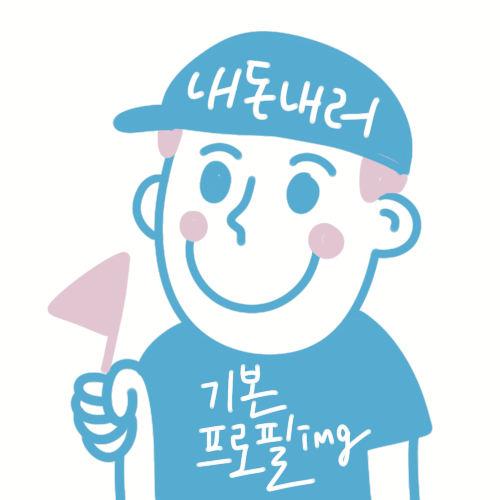
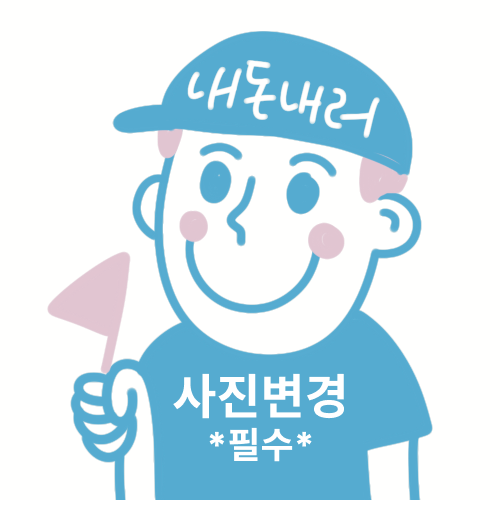
[마이페이지] - 프로필이미지,닉네임 변경 모달창으로 수정 완료

diff --git a/src/components/mypage/Myinfo.jsx b/src/components/mypage/Myinfo.jsx
@@ -2,8 +2,10 @@ import React, { useState, useEffect } from "react";
 import { useNavigate } from "react-router-dom";
 import { useDispatch, useSelector } from "react-redux";
 import { putMyinfo, getMyinfo } from "../../redux/modules/myinfo";
+import Modal from "./MyProfileModal";
 //이미지
-import profileImg from "../../asset/assetMypage/profileImg1.png";
+import profileImg1 from "../../asset/assetMypage/profileImg1.png";
+import profileImg from "../../asset/assetMypage/profileImg.png";
 import edit from "../../asset/edit.png";
 
 const Myinfo = () => {
@@ -17,7 +19,6 @@ const Myinfo = () => {
     dispatch(getMyinfo());
   }, [dispatch]);
 
-  const NICKNAME = localStorage.getItem("nickname");
   const [nickname, setNickname] = useState("");
   const [profileImage, setProfileImage] = useState([]);
   const [preview, setPreview] = useState("");
@@ -51,15 +52,54 @@ const Myinfo = () => {
     navigate("/myinfo");
   };
 
+  //수정창 모달
+  const [modalOpen, setModalOpen] = useState(false);
+  const openModal = () => {
+    setModalOpen(true);
+  };
+  const closeModal = () => {
+    setModalOpen(false);
+  };
+
   return (
     <div className="All">
-      {myinfo === undefined ? (
+      <div className="profileImage">
+        {myinfo === undefined ? (
+          <>
+            <img src={profileImg} alt="프로필이미지" />
+          </>
+        ) : myinfo[0].profileImage === null ? (
+          <>
+            <img src={profileImg} alt="프로필이미지" />
+            <div className="profileNickname1">
+              {myinfo[0]?.nickname}
+              <button onClick={openModal}>
+                <img
+                  src={edit}
+                  style={{ width: "30px", height: "25px" }}
+                  alt="닉네임수정버튼"
+                />
+              </button>
+            </div>
+          </>
+        ) : (
+          <>
+            <img src={myinfo[0].profileImage} alt="프로필이미지" />
+            <div className="profileNickname1">
+              <h4>{myinfo[0]?.nickname}</h4>
+              <img src={edit} alt="닉네임수정버튼" onClick={openModal} />
+            </div>
+          </>
+        )}
+      </div>
+      {/* 수정모달창 */}
+      <Modal open={modalOpen} close={closeModal}>
         <form onSubmit={onSubmitHandler}>
           {/* 프로필사진 */}
           <div className="profileImage">
             <img
               alt="이미지를 업로드 해주세요."
-              src={preview ? preview : profileImg}
+              src={preview ? preview : profileImg1}
             />
             <label htmlFor="file" className="profileImginputLabel">
               변경하기
@@ -78,115 +118,20 @@ const Myinfo = () => {
           <div className="profileNickname">
             <input
               type="text"
-              placeholder={NICKNAME}
               value={nickname}
+              placeholder="6글자이내"
               className="profileNickameinput"
               onChange={(e) => {
                 setNickname(e.target.value);
               }}
             />
-            <button
-              type="submit"
-              style={{ border: "none", background: "transparent" }}
-            >
-              <img
-                src={edit}
-                style={{ width: "30px", height: "25px" }}
-                alt="닉네임수정버튼"
-              />
+            <button type="submit" className="changeButton">
+              변경
             </button>
           </div>
         </form>
-      ) : myinfo[0].profileImage === null ? (
-        <form onSubmit={onSubmitHandler}>
-          {/* 프로필사진 */}
-          <div className="profileImage">
-            <img
-              alt="이미지를 업로드 해주세요."
-              src={preview ? preview : profileImg}
-            />
-            <label htmlFor="file" className="profileImginputLabel">
-              변경하기
-            </label>
-            <input
-              type="file"
-              accept="image/*"
-              name="profileImage"
-              id="file"
-              className="profileImginput"
-              onChange={onChangeImage}
-              multiple="multiple"
-            />
-          </div>
-          {/* 닉네임, 수정버튼 */}
-          <div className="profileNickname">
-            <input
-              type="text"
-              placeholder={NICKNAME}
-              value={nickname}
-              className="profileNickameinput"
-              onChange={(e) => {
-                setNickname(e.target.value);
-              }}
-            />
-            <button
-              type="submit"
-              style={{ border: "none", background: "transparent" }}
-            >
-              <img
-                src={edit}
-                style={{ width: "30px", height: "25px" }}
-                alt="닉네임수정버튼"
-              />
-            </button>
-          </div>
-        </form>
-      ) : (
-        <form onSubmit={onSubmitHandler}>
-          {/* 프로필사진 */}
-          <div className="profileImage">
-            <img
-              alt="이미지를 업로드 해주세요."
-              src={preview ? preview : myinfo[0].profileImage}
-            />
-            <label htmlFor="file" className="profileImginputLabel">
-              변경하기
-            </label>
-            <input
-              type="file"
-              accept="image/*"
-              name="profileImage"
-              id="file"
-              className="profileImginput"
-              onChange={onChangeImage}
-              multiple="multiple"
-            />
-          </div>
-          {/* 닉네임, 수정버튼 */}
-          <div className="profileNickname">
-            <button>{myinfo[0].nickname}</button>
-            <input
-              type="text"
-              placeholder="변경할 닉네임을 적어주세요."
-              value={nickname}
-              className="profileNickameinput"
-              onChange={(e) => {
-                setNickname(e.target.value);
-              }}
-            />
-            <button
-              type="submit"
-              style={{ border: "none", background: "transparent" }}
-            >
-              <img
-                src={edit}
-                style={{ width: "30px", height: "25px" }}
-                alt="닉네임수정버튼"
-              />
-            </button>
-          </div>
-        </form>
-      )}
+      </Modal>
+
       {/* 관심 여행 키워드, 수정버튼 */}
       <div className="profileCategory">
         <div className="CategoryTitle">
@@ -201,6 +146,7 @@ const Myinfo = () => {
           여기에카테고리겟으로가져오기 혼자 | 식도락| 액티브 |룰라랄라라라
         </div>
       </div>
+
       {/* 모아보기, 나의 일정 */}
       <div className="myListAll">
         <p

diff --git a/src/components/mypage/style.scss b/src/components/mypage/style.scss
@@ -1,5 +1,14 @@
 //혜림담당
 
+//프로필사진 모달
+.myProfileAll {
+  width: 100%;
+  color: #999999;
+  font-size: 12px;
+  border-top: 1px solid rgb(229, 229, 229);
+  padding-top: 1rem;
+}
+
 // 나의페이지
 .imgBox {
   border-radius: 70%;
@@ -53,17 +62,51 @@
   margin: 2% 0 0 25%;
   font-size: 1.1rem;
   font-weight: 900;
-  width: 50%;
+  width: 55%;
   height: 5%;
 }
 
-.profileNickameinput {
-  border: 2px solid #555555;
-  width: 50%;
+.profileNickname1 {
+  display: flex;
+  align-items: center;
   text-align: right;
+  margin-top: 127px;
+  font-size: 1.1rem;
+  font-weight: 900;
+  width: 30%;
+  height: 25px;
+  position: absolute;
+  // background-color: #47afdb;
+  h4 {
+    text-overflow: ellipsis;
+    white-space: nowrap;
+    overflow: hidden;
+    width: 85%;
+  }
+  img {
+    width: 27px;
+    height: 23px;
+  }
+}
+
+.profileNickameinput {
+  border: 2px solid #999999;
+  width: 50%;
+  text-align: center;
   font-size: 1rem;
-  font-weight: 700;
   background-color: transparent;
+  height: 30px;
+}
+
+.changeButton {
+  border: none;
+  background: linear-gradient(to right, #f5c9e0 5%, #47afdb 70%);
+  color: white;
+  font-weight: bold;
+  width: 60px;
+  border-radius: 5px;
+  margin-left: 5px;
+  font-size: 15px;
 }
 
 .profileCategory {
@@ -335,5 +378,71 @@
   width: 40%;
   img {
     width: 100%;
+  }
+}
+
+//프로필이미지수정 모달
+.modal {
+  display: none;
+  position: fixed;
+  top: 0;
+  right: 0;
+  bottom: 0;
+  left: 0;
+  z-index: 99;
+  background-color: rgba(0, 0, 0, 0.4);
+}
+.modal button {
+  outline: none;
+  cursor: pointer;
+  border: 0;
+}
+.modal > section {
+  width: 95%;
+  height: 210px;
+  max-width: 428px;
+  margin: 0 auto;
+  border-radius: 0.3rem;
+  background-color: #fff;
+  animation: modal-show 0.3s;
+  overflow: hidden;
+}
+
+.modal.openModal {
+  display: flex;
+  align-items: center;
+  animation: modal-bg-show 0.3s;
+}
+.modal > section > header {
+  position: relative;
+}
+.modal > section > header button {
+  position: absolute;
+  top: 15px;
+  right: 15px;
+  width: 30px;
+  font-size: 30px;
+  font-weight: 700;
+  text-align: center;
+  color: #999;
+  background-color: transparent;
+}
+
+@keyframes modal-show {
+  from {
+    opacity: 0;
+    margin-top: -50px;
+  }
+  to {
+    opacity: 1;
+    margin-top: 0;
+  }
+}
+@keyframes modal-bg-show {
+  from {
+    opacity: 0;
+  }
+  to {
+    opacity: 1;
   }
 }

diff --git a/src/components/mypage/MyProfileModal.jsx b/src/components/mypage/MyProfileModal.jsx
@@ -1,0 +1,23 @@
+import React from "react";
+
+const MyProfile = (props) => {
+  const { open, close, header } = props;
+
+  return (
+    <div className={open ? "openModal modal" : "modal"}>
+      {open ? (
+        <section>
+          <header>
+            {header}
+            <button className="close" onClick={close}>
+              &times;
+            </button>
+          </header>
+          <main>{props.children}</main>
+        </section>
+      ) : null}
+    </div>
+  );
+};
+
+export default MyProfile;

diff --git a/src/redux/modules/myinfo.js b/src/redux/modules/myinfo.js
@@ -65,17 +65,6 @@ export const myinfo = createSlice({
       state.isLoading = false;
       state.error = action.payload;
     },
-    // [putMyinfo.pending]: (state) => {
-    //   state.isLoading = true;
-    // },
-    // [putMyinfo.fulfilled]: (state, action) => {
-    //   state.isLoading = false;
-    //   state.myinfo.splice(0, 1, state.myinfo[0]);
-    // },
-    // [putMyinfo.rejected]: (state, action) => {
-    //   state.isLoading = false;
-    //   state.error = action.payload;
-    // },
   },
 });
 
